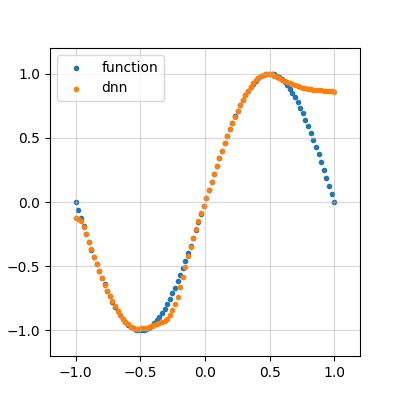
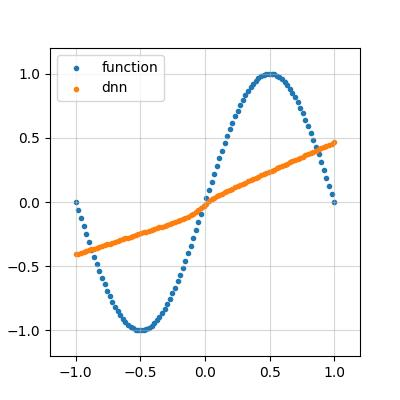
add code

Changed region(s): [[0.18, 0.15, 0.84, 0.84]]

diff --git a/00_tf2/main.py b/00_tf2/main.py
@@ -4,8 +4,6 @@ main file to execute your program
 ********************************************************************************
 """
 
-import os
-import sys
 import numpy as np
 import matplotlib.pyplot as plt
 
@@ -70,11 +68,11 @@ def main():
 
     # perpare dataset
     x_train = tf.random.uniform(
-        (30, 1), xmin, xmax, dtype=d_type
+        (10, 1), xmin, xmax, dtype=d_type
     )
-    # x_train = tf.linspace(
-    #     xmin, xmax, int(nx / 10)
-    # )
+    # x_train = np.linspace(xmin, xmax, int(nx / 5))
+    # x_train = x_train.reshape(-1, 1)
+    # x_train = tf.convert_to_tensor(x_train)
     y_train = tf.sin(np.pi * x_train)
 
     # define model
@@ -88,7 +86,7 @@ def main():
 
     # train
     with tf.device("/device:GPU:0"):
-        model.train(n_epc = int(1e4), n_btc = -1, c_tol = 1e-5)
+        model.train(n_epc = int(100), n_btc = -1, c_tol = 1e-5)
 
     # infer
     x_infer = tf.cast(x, dtype=d_type)
